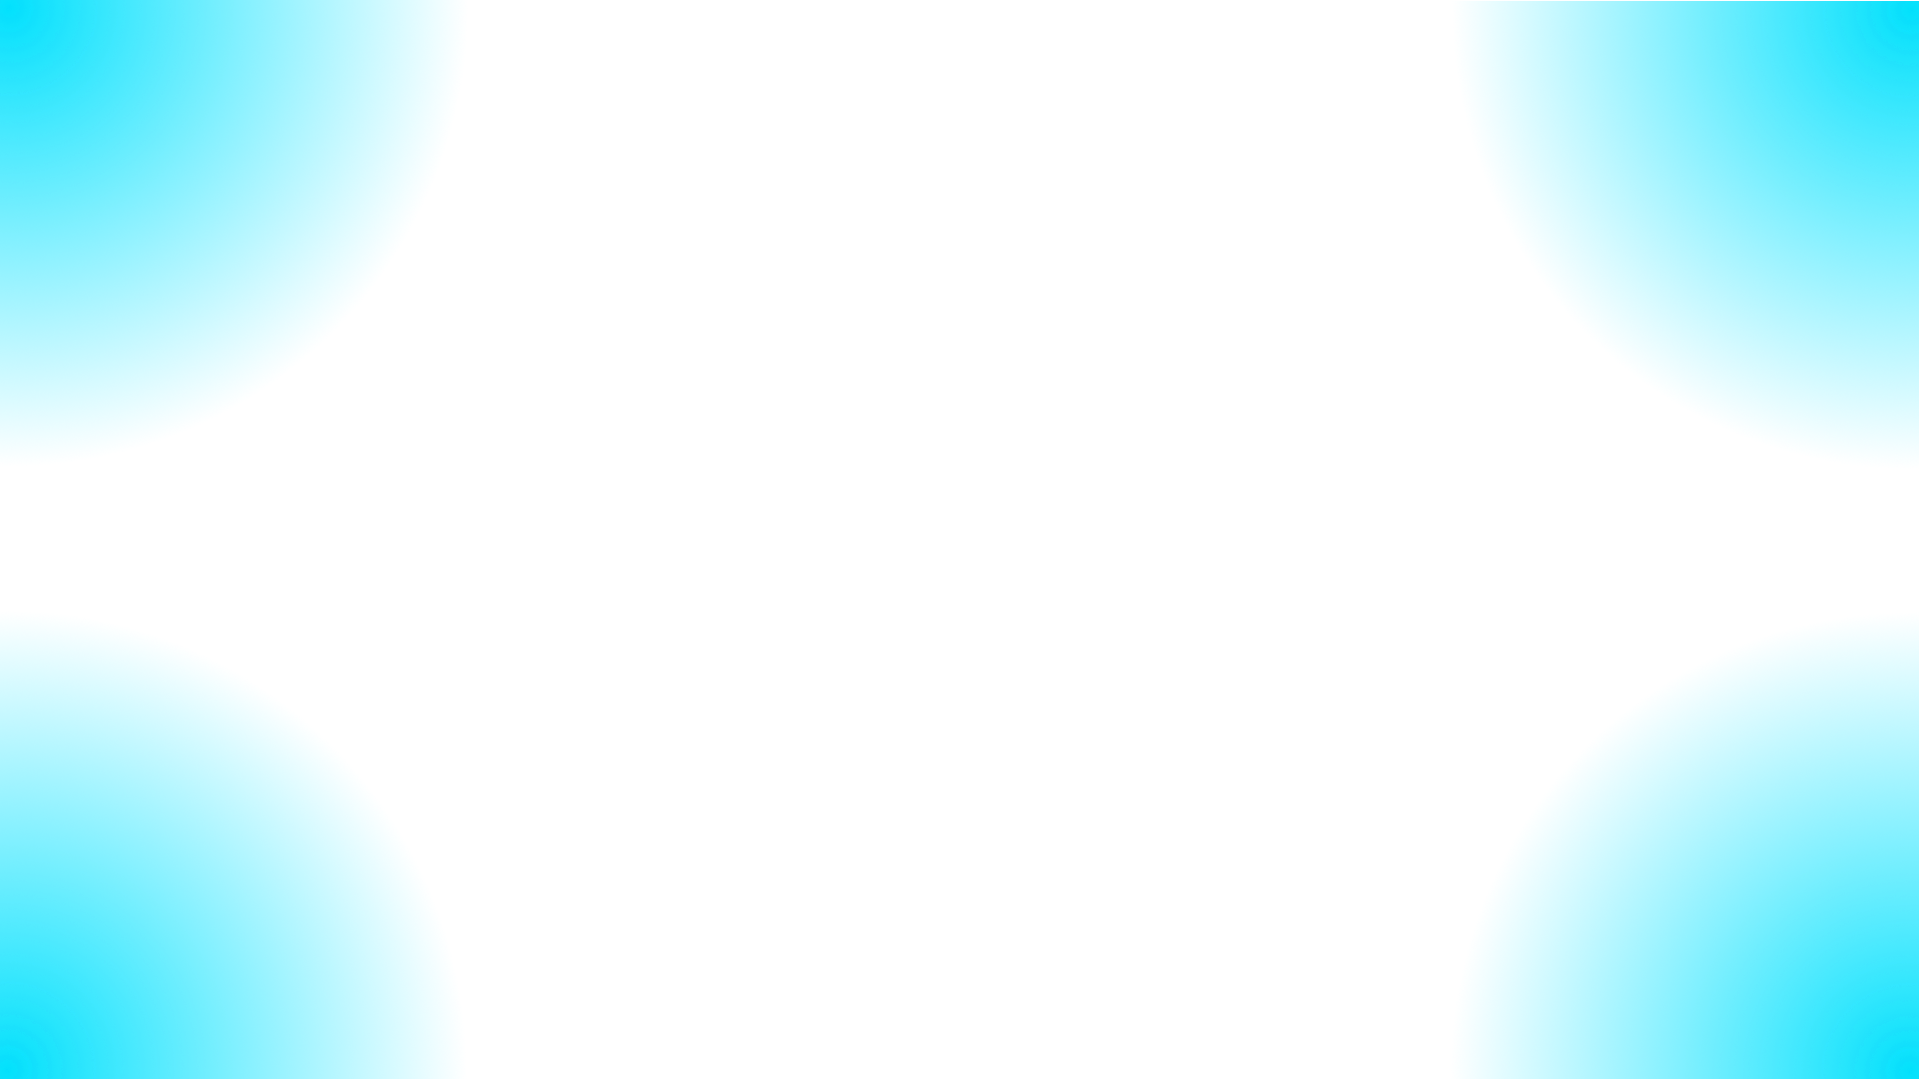
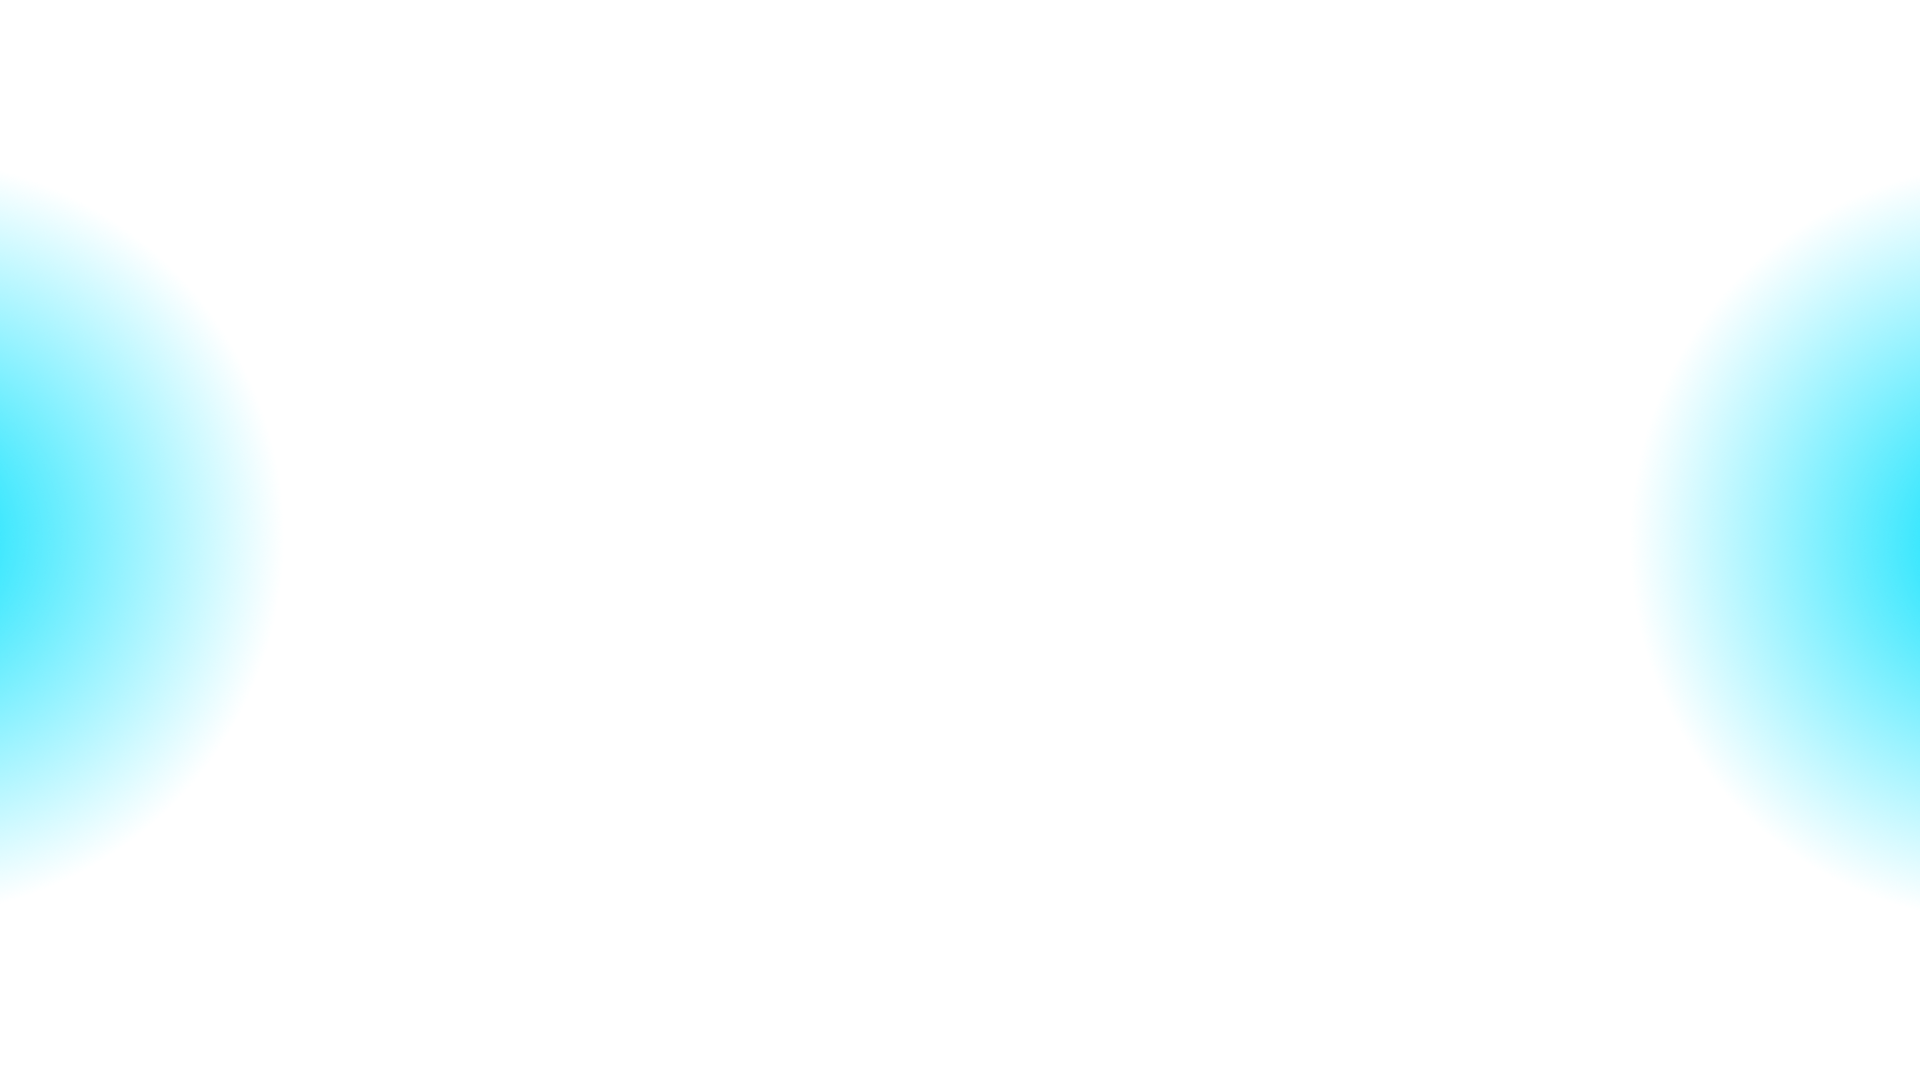
s

diff --git a/pages/index.vue b/pages/index.vue
@@ -40,6 +40,11 @@ const prevTier = () => {
       :title="page.hero.title"
       :description="page.hero.description"
       :links="page.hero.links"
+      :style="{
+        backgroundImage: 'url(/chadbg2.png)',
+        backgroundSize: 'cover',
+        backgroundPosition: 'center center',
+      }"
       class="development-section"
     >
       <template #headline>
